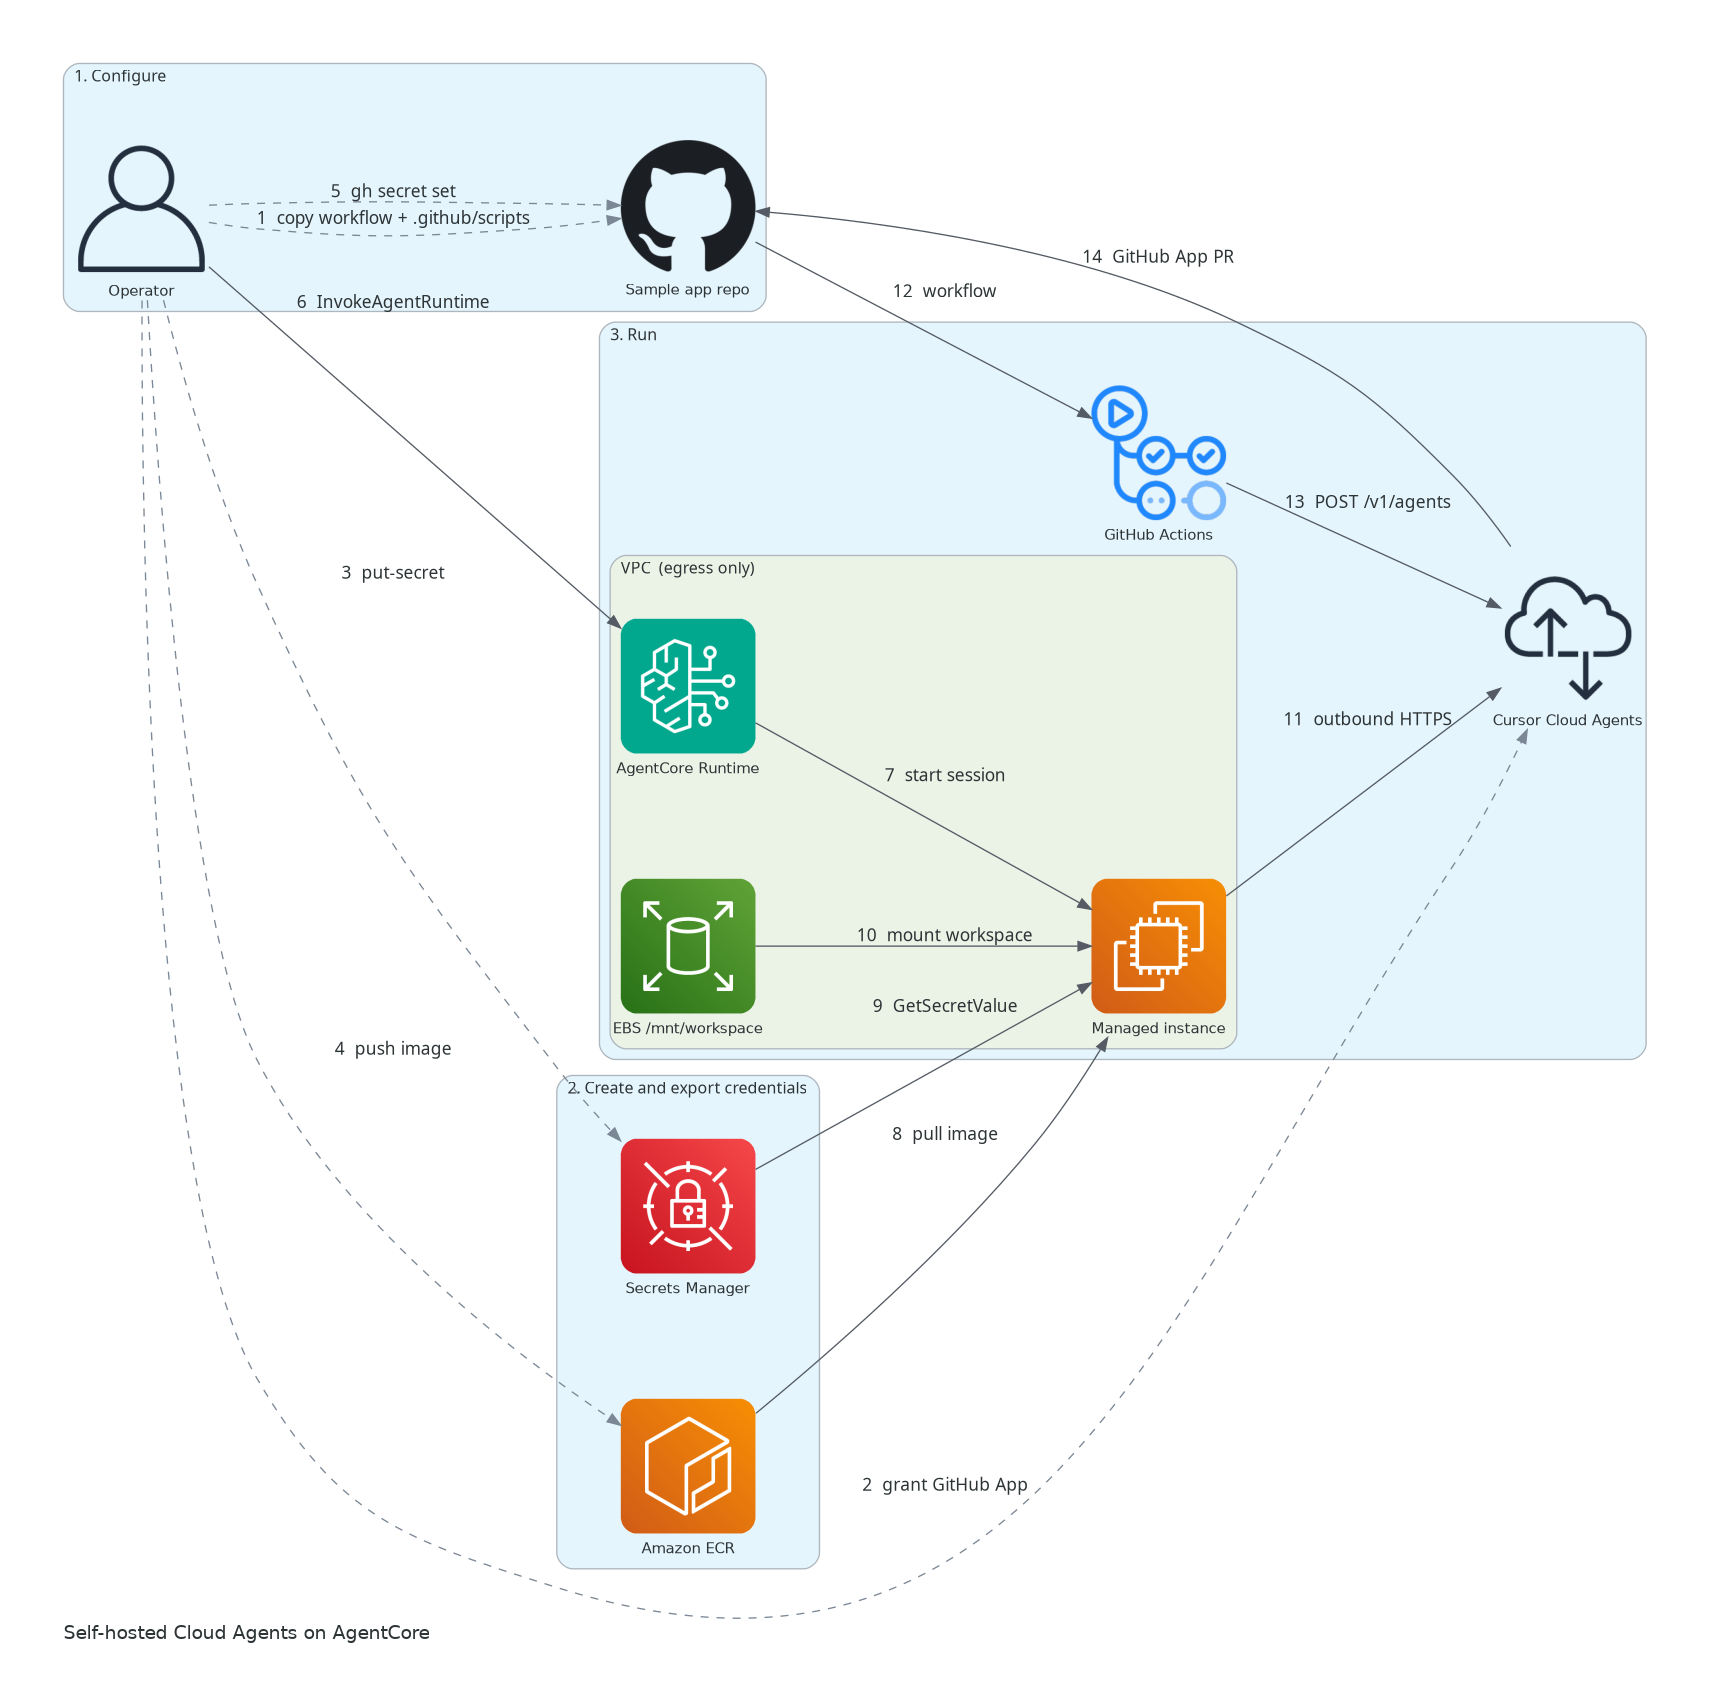
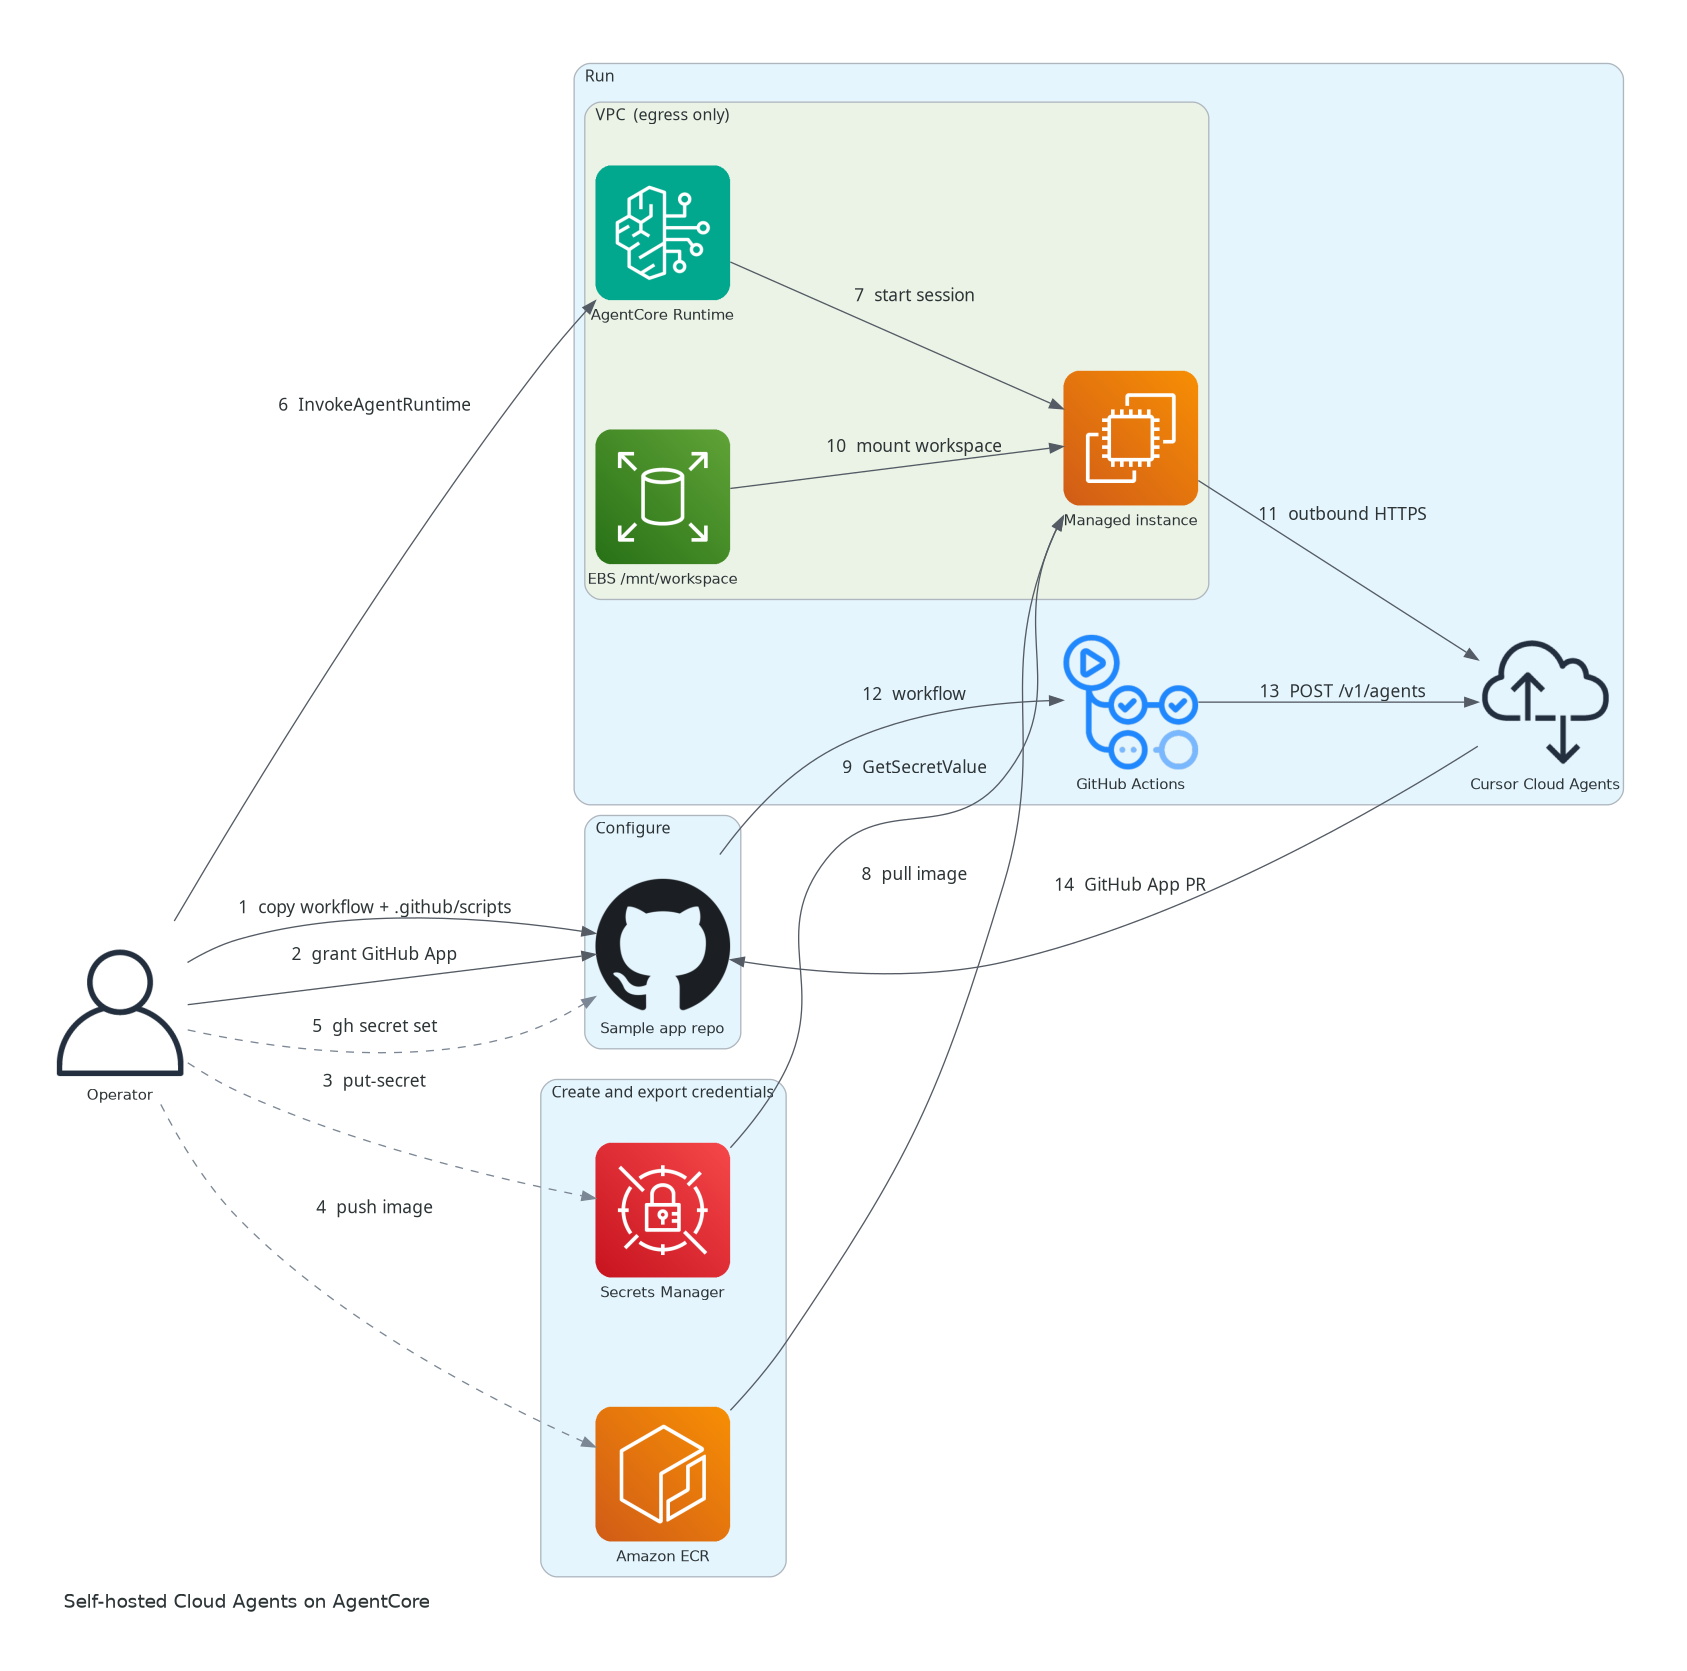
Keep ECR in the credentials lane and make edge 2 visible.
Move the Operator out of Configure so push-image no longer looks like a
configure step. Drop numbered lane titles so box 2 is not confused with
missing edge 2. Grant GitHub App is edge 2 on the sample repo.

diff --git a/self-hosted-cloud-agent/agentcore/diagrams/render_architecture.py b/self-hosted-cloud-agent/agentcore/diagrams/render_architecture.py
@@ -34,8 +34,8 @@ def main() -> None:
         "bgcolor": "white",
         "pad": "0.55",
         "splines": "spline",
-        "nodesep": "0.8",
-        "ranksep": "1.0",
+        "nodesep": "0.85",
+        "ranksep": "1.05",
         "fontname": "Helvetica",
         "labeljust": "l",
         "compound": "true",
@@ -52,15 +52,16 @@ def main() -> None:
         node_attr=node_attr,
         edge_attr=edge_attr,
     ):
-        with Cluster("1. Configure"):
-            operator = User("Operator")
+        operator = User("Operator")
+
+        with Cluster("Configure"):
             github = Github("Sample app repo")
 
-        with Cluster("2. Create and export credentials"):
+        with Cluster("Create and export credentials"):
             secrets = SecretsManager("Secrets Manager")
             ecr = EC2ContainerRegistry("Amazon ECR")
 
-        with Cluster("3. Run"):
+        with Cluster("Run"):
             with Cluster("VPC  (egress only)"):
                 runtime = Bedrock("AgentCore Runtime")
                 instance = EC2("Managed instance")
@@ -68,11 +69,11 @@ def main() -> None:
             cursor = InternetAlt1("Cursor Cloud Agents")
             actions = GithubActions("GitHub Actions")
 
-        # Configure: static templates in agentcore/github/, copied by hand
-        operator >> Edge(label="1  copy workflow + .github/scripts", style="dashed", color="#7B8794") >> github
-        operator >> Edge(label="2  grant GitHub App", style="dashed", color="#7B8794") >> cursor
+        # Configure
+        operator >> Edge(label="1  copy workflow + .github/scripts") >> github
+        operator >> Edge(label="2  grant GitHub App") >> github
 
-        # Credentials: laptop .env/export, then land the values
+        # Credentials
         operator >> Edge(label="3  put-secret", style="dashed", color="#7B8794") >> secrets
         operator >> Edge(label="4  push image", style="dashed", color="#7B8794") >> ecr
         operator >> Edge(label="5  gh secret set", style="dashed", color="#7B8794") >> github

diff --git a/self-hosted-cloud-agent/agentcore/README.md b/self-hosted-cloud-agent/agentcore/README.md
@@ -47,7 +47,7 @@ The capacity provider and agent runtime are managed through `aws_cloudcontrolapi
 
 ![Self-hosted Cloud Agents on AgentCore](diagrams/architecture.png)
 
-Dashed edges (1–5) are configure and credentials. Step 1 copies the static templates in `github/` into the sample app (`.github/workflows/` and `.github/scripts/kick_cursor_agent.py`); the cookbook does not generate those files. Solid edges (6–14) are run.
+The Operator sits outside the lanes. Configure is the sample repo (steps 1–2). Credentials is Secrets Manager and ECR (steps 3–5). Run is the session, registration, kickoff, and PR (steps 6–14). Step 1 copies the static templates in `github/` into the sample app (`.github/workflows/` and `.github/scripts/kick_cursor_agent.py`); the cookbook does not generate those files.
 
 Detailed runbook (how to `export` / `.env` each variable, where it lands, and the 15-step commands): [`diagrams/secrets-and-flow.png`](diagrams/secrets-and-flow.png). Command sequence: [`terraform/README.md`](terraform/README.md).
 
